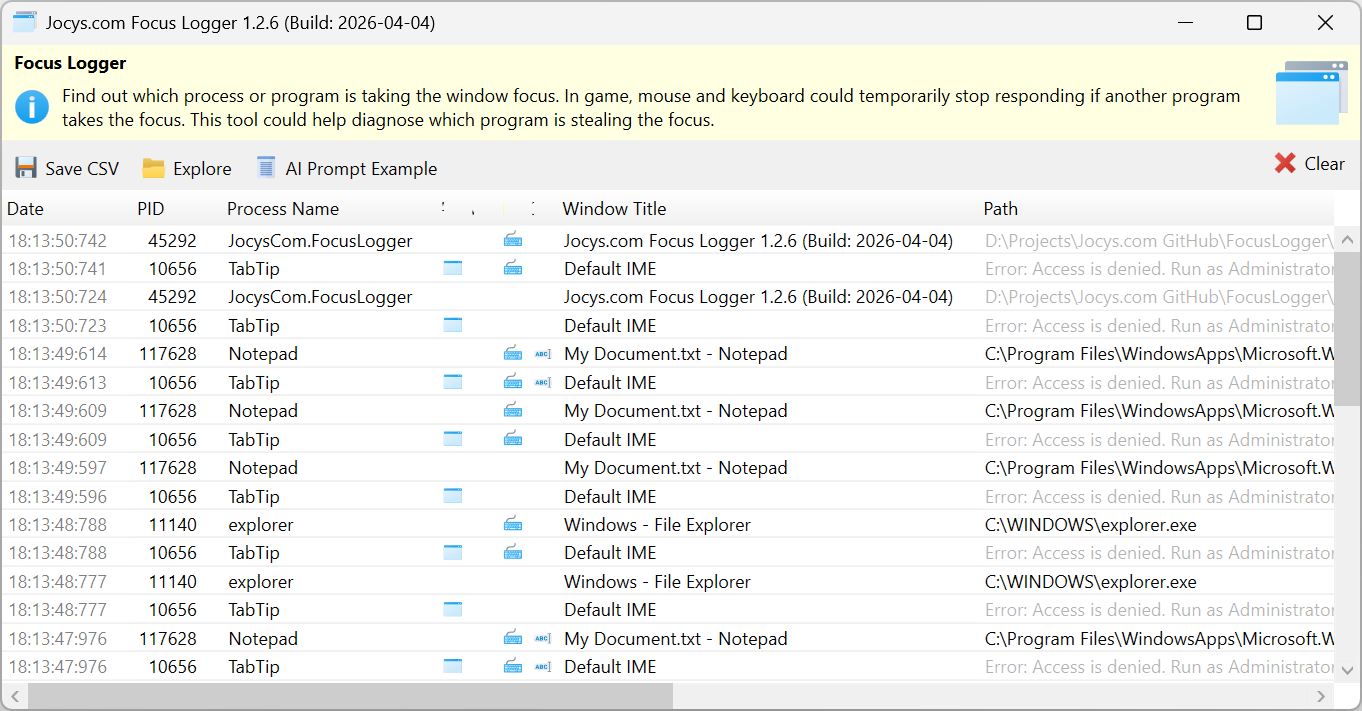
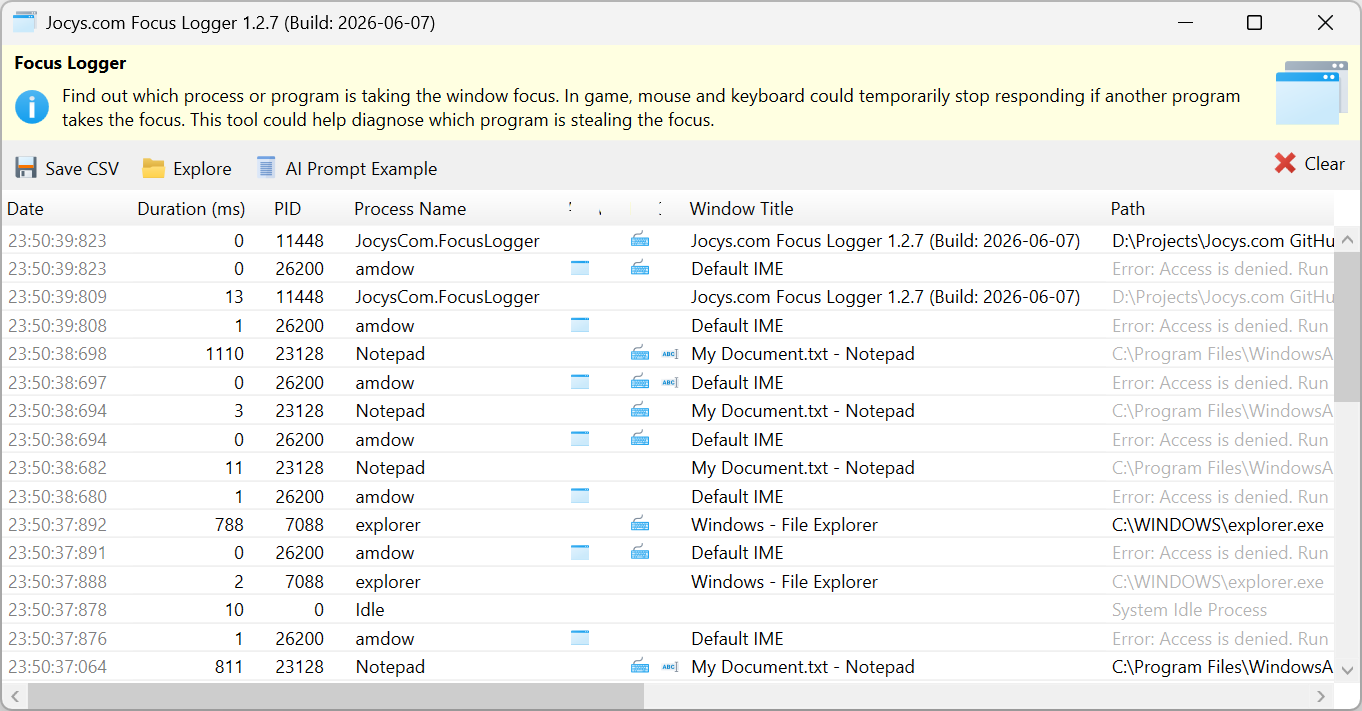
## Changes
- Fixed: Sorting by Date doesn't work.
- Fixed: New entries jump to the top instead of staying in sort order.
- Fixed: Cleared rows reappear after the sort is removed.
- Fixed: Duration keeps growing for the oldest row when sorted by Date.

Changed region(s): [[0.0, 0.2785, 1.0, 1.0], [0.3084, 0.8354, 0.3392, 0.8664]]

diff --git a/FocusLogger.Tests/FocusDurationTests.cs b/FocusLogger.Tests/FocusDurationTests.cs
@@ -1,0 +1,63 @@
+using JocysCom.ClassLibrary.ComponentModel;
+using JocysCom.FocusLogger;
+using JocysCom.FocusLogger.Controls;
+using Microsoft.VisualStudio.TestTools.UnitTesting;
+using System;
+using System.ComponentModel;
+using System.Linq;
+
+namespace JocysCom.FocusLogger.Tests
+{
+	[TestClass]
+	public class FocusDurationTests
+	{
+		private static PropertyDescriptor DateDescriptor()
+			=> TypeDescriptor.GetProperties(typeof(DataItem))[nameof(DataItem.Date)];
+
+		[TestMethod]
+		public void RecordFocusChange_FinalizesPreviousEntryDuration()
+		{
+			var list = new SortableBindingList<DataItem>();
+			DataItem prev = null;
+			prev = DataListControl.RecordFocusChange(list, prev,
+				new DataItem { Date = new DateTime(2026, 4, 4, 10, 0, 0, 0) });
+			prev = DataListControl.RecordFocusChange(list, prev,
+				new DataItem { Date = new DateTime(2026, 4, 4, 10, 0, 1, 0) });
+			// The first entry stayed focused exactly one second before the second arrived.
+			Assert.AreEqual(1000, list.Single(x => x.Date.Second == 0).Duration);
+			// The newest entry has no successor yet, so its Duration stays 0.
+			Assert.AreEqual(0, list.Single(x => x.Date.Second == 1).Duration);
+		}
+
+		[TestMethod]
+		public void RecordFocusChange_AfterAscendingSort_DoesNotInflateOldestDuration()
+		{
+			// Reproduces the issue #41 follow-up: once the grid is sorted by Date
+			// ascending, the oldest row moves to index 0. The old DataItems[0]-based
+			// math then recomputed that row's Duration from its fixed timestamp on
+			// every refresh, so it grew without bound. Tracking the previous entry by
+			// reference keeps already-finalized durations frozen.
+			var list = new SortableBindingList<DataItem>();
+			DataItem prev = null;
+			var a = new DataItem { Date = new DateTime(2026, 4, 4, 10, 0, 0, 0) };
+			var b = new DataItem { Date = new DateTime(2026, 4, 4, 10, 0, 5, 0) };
+			var c = new DataItem { Date = new DateTime(2026, 4, 4, 10, 0, 12, 0) };
+			prev = DataListControl.RecordFocusChange(list, prev, a); // a.Duration set when b arrives
+			prev = DataListControl.RecordFocusChange(list, prev, b); // a.Duration = 5000
+			prev = DataListControl.RecordFocusChange(list, prev, c); // b.Duration = 7000
+			Assert.AreEqual(5000, a.Duration);
+			Assert.AreEqual(7000, b.Duration);
+			// User sorts ascending: oldest (a) is now at the top of the grid.
+			((IBindingList)list).ApplySort(DateDescriptor(), ListSortDirection.Ascending);
+			Assert.AreSame(a, list[0]);
+			// Many later focus changes (refreshes) arrive, an hour and two hours on.
+			prev = DataListControl.RecordFocusChange(list, prev,
+				new DataItem { Date = new DateTime(2026, 4, 4, 11, 0, 0, 0) });
+			prev = DataListControl.RecordFocusChange(list, prev,
+				new DataItem { Date = new DateTime(2026, 4, 4, 12, 0, 0, 0) });
+			// The already-finalized durations must stay frozen, not grow toward "now".
+			Assert.AreEqual(5000, a.Duration);
+			Assert.AreEqual(7000, b.Duration);
+		}
+	}
+}

diff --git a/FocusLogger.Tests/SortableBindingListTests.cs b/FocusLogger.Tests/SortableBindingListTests.cs
@@ -138,5 +138,44 @@ namespace JocysCom.FocusLogger.Tests
 			Assert.IsTrue(list.Contains(inserted),
 				"Items inserted while sorted must survive RemoveSort.");
 		}
+
+		[TestMethod]
+		public void RemoveSort_AfterSortAndRemove_DropsRemovedItems()
+		{
+			// Symmetric to the insert case above: an item removed while sorted must
+			// not be resurrected from the backing _OriginalCollection when the sort
+			// is cleared. Without the matching RemoveItem fix it reappears.
+			var list = new SortableBindingList<DataItem>
+			{
+				ItemAt(new DateTime(2026, 4, 5, 12, 0, 0, 0)),
+				ItemAt(new DateTime(2026, 4, 4, 12, 0, 0, 0)),
+				ItemAt(new DateTime(2026, 4, 3, 12, 0, 0, 0)),
+			};
+			((IBindingList)list).ApplySort(DateDescriptor(), ListSortDirection.Descending);
+			var removed = list[0];
+			list.Remove(removed);
+			((IBindingList)list).RemoveSort();
+			Assert.IsFalse(list.Contains(removed),
+				"Items removed while sorted must not reappear after RemoveSort.");
+			Assert.AreEqual(2, list.Count);
+		}
+
+		[TestMethod]
+		public void RemoveSort_AfterSortAndClear_DoesNotResurrectClearedItems()
+		{
+			// sort -> Clear -> unsort must yield an empty list. Clear() has to drop the
+			// backing _OriginalCollection too, otherwise RemoveSort re-adds the rows.
+			var list = new SortableBindingList<DataItem>
+			{
+				ItemAt(new DateTime(2026, 4, 5, 12, 0, 0, 0)),
+				ItemAt(new DateTime(2026, 4, 4, 12, 0, 0, 0)),
+				ItemAt(new DateTime(2026, 4, 3, 12, 0, 0, 0)),
+			};
+			((IBindingList)list).ApplySort(DateDescriptor(), ListSortDirection.Descending);
+			list.Clear();
+			((IBindingList)list).RemoveSort();
+			Assert.AreEqual(0, list.Count,
+				"Rows cleared while sorted must not reappear after the sort is removed.");
+		}
 	}
 }

diff --git a/FocusLogger/Controls/DataListControl.xaml.cs b/FocusLogger/Controls/DataListControl.xaml.cs
@@ -148,6 +148,27 @@ namespace JocysCom.FocusLogger.Controls
 			return value;
 		}
 
+		/// <summary>
+		/// Records a focus change: finalizes the Duration of the previously inserted
+		/// entry (milliseconds it stayed focused, up until <paramref name="current"/>)
+		/// and inserts the new entry at the top of the list. Returns
+		/// <paramref name="current"/> so the caller tracks it as the next "previous".
+		/// </summary>
+		/// <remarks>
+		/// The previous entry is tracked by reference rather than as DataItems[0] so the
+		/// duration stays correct after the user sorts the grid. Sorting reorders the
+		/// collection (ascending by Date moves the oldest row to the top), which
+		/// previously caused that row's Duration to be recomputed from its fixed
+		/// timestamp on every refresh and grow without bound.
+		/// </remarks>
+		public static DataItem RecordFocusChange(SortableBindingList<DataItem> items, DataItem previous, DataItem current)
+		{
+			if (previous != null)
+				previous.Duration = (long)(current.Date - previous.Date).TotalMilliseconds;
+			items.Insert(0, current);
+			return current;
+		}
+
 		private void CopyAiPromptButton_Click(object sender, RoutedEventArgs e)
 		{
 			var prompt = ClassLibrary.Helper.FindResource<string>("Resources/AiAnalysisPrompt.md").TrimEnd();
@@ -159,6 +180,7 @@ namespace JocysCom.FocusLogger.Controls
 		private void ClearButton_Click(object sender, RoutedEventArgs e)
 		{
 			DataItems.Clear();
+			_lastItem = null;
 		}
 
 		private void UserControl_Unloaded(object sender, RoutedEventArgs e)
@@ -230,6 +252,12 @@ namespace JocysCom.FocusLogger.Controls
 		DataItem oldActiveItem = new DataItem();
 		DataItem oldForegroundItem = new DataItem();
 
+		// Most recently inserted entry. Its Duration is finalized when the next focus
+		// change arrives. Tracked by reference (not DataItems[0]) so the calculation
+		// survives sorting, which reorders the grid and would otherwise make the
+		// row at index 0 grow its Duration on every refresh.
+		DataItem _lastItem;
+
 		public void UpdateInfo()
 		{
 			// Active window -  Window that appears in the foreground with a highlighted title bar.
@@ -251,9 +279,7 @@ namespace JocysCom.FocusLogger.Controls
 					UpdateFromProcess(activeItem);
 					ControlsHelper.BeginInvoke(() =>
 					{
-						if (DataItems.Count > 0)
-							DataItems[0].Duration = (long)(activeItem.Date - DataItems[0].Date).TotalMilliseconds;
-						DataItems.Insert(0, activeItem);
+						_lastItem = RecordFocusChange(DataItems, _lastItem, activeItem);
 					});
 				}
 				// Get foreground window.
@@ -266,9 +292,7 @@ namespace JocysCom.FocusLogger.Controls
 					UpdateFromProcess(foregroundItem);
 					ControlsHelper.BeginInvoke(() =>
 					{
-						if (DataItems.Count > 0)
-							DataItems[0].Duration = (long)(foregroundItem.Date - DataItems[0].Date).TotalMilliseconds;
-						DataItems.Insert(0, foregroundItem);
+						_lastItem = RecordFocusChange(DataItems, _lastItem, foregroundItem);
 					});
 				}
 			}

diff --git a/FocusLogger/JocysCom/ComponentModel/SortableBindingList.cs b/FocusLogger/JocysCom/ComponentModel/SortableBindingList.cs
@@ -216,7 +216,26 @@ namespace JocysCom.ClassLibrary.ComponentModel
 				if (propDesc.SupportsChangeEvents)
 					propDesc.RemoveValueChanged(item, OnItemChanged);
 			}
+			// Mirror InsertItem: while sorted, every item is also tracked in
+			// _OriginalCollection so RemoveSort can restore the pre-sort view. Drop the
+			// removed item from that backing list too, otherwise it would silently
+			// reappear at the bottom as soon as the user clears the sort.
+			if (_Sorted)
+				_OriginalCollection.Remove(item);
 			base.RemoveItem(index);
+		}
+
+		protected override void ClearItems()
+		{
+			// A user-initiated Clear() while sorted must also drop _OriginalCollection,
+			// otherwise every cleared row is resurrected the moment the sort is removed
+			// (RemoveSortCore re-adds from it). Same bug class as RemoveItem above.
+			// The internal Clear() calls inside RemoveSortCore/RemoveFilter are safe:
+			// both set _Sorted = false first, so this guard is false there and the
+			// restore buffer is preserved for re-adding.
+			if (_Sorted)
+				_OriginalCollection.Clear();
+			base.ClearItems();
 		}
 
 		private void OnItemChanged(object sender, EventArgs args)